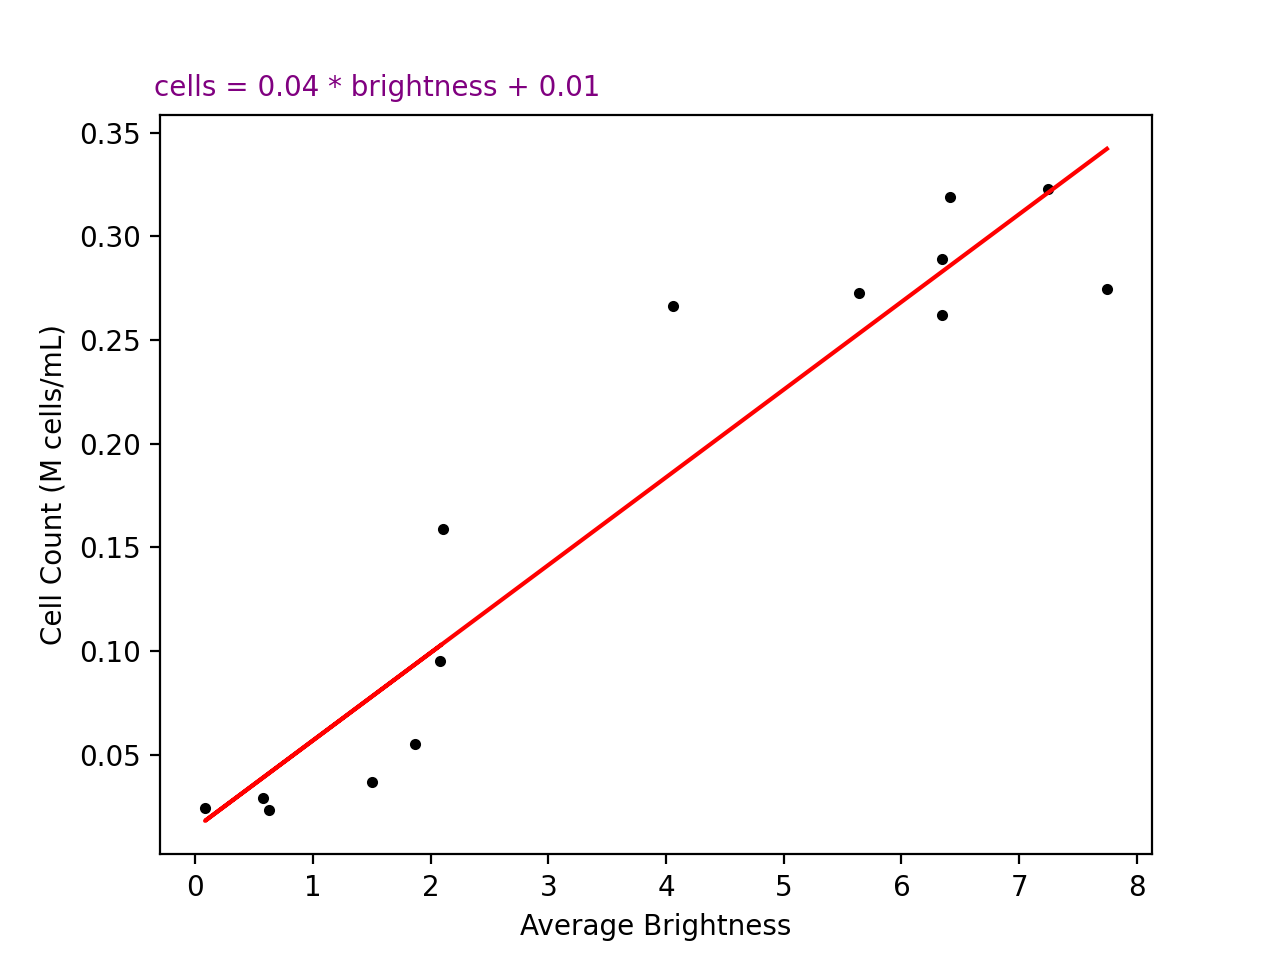
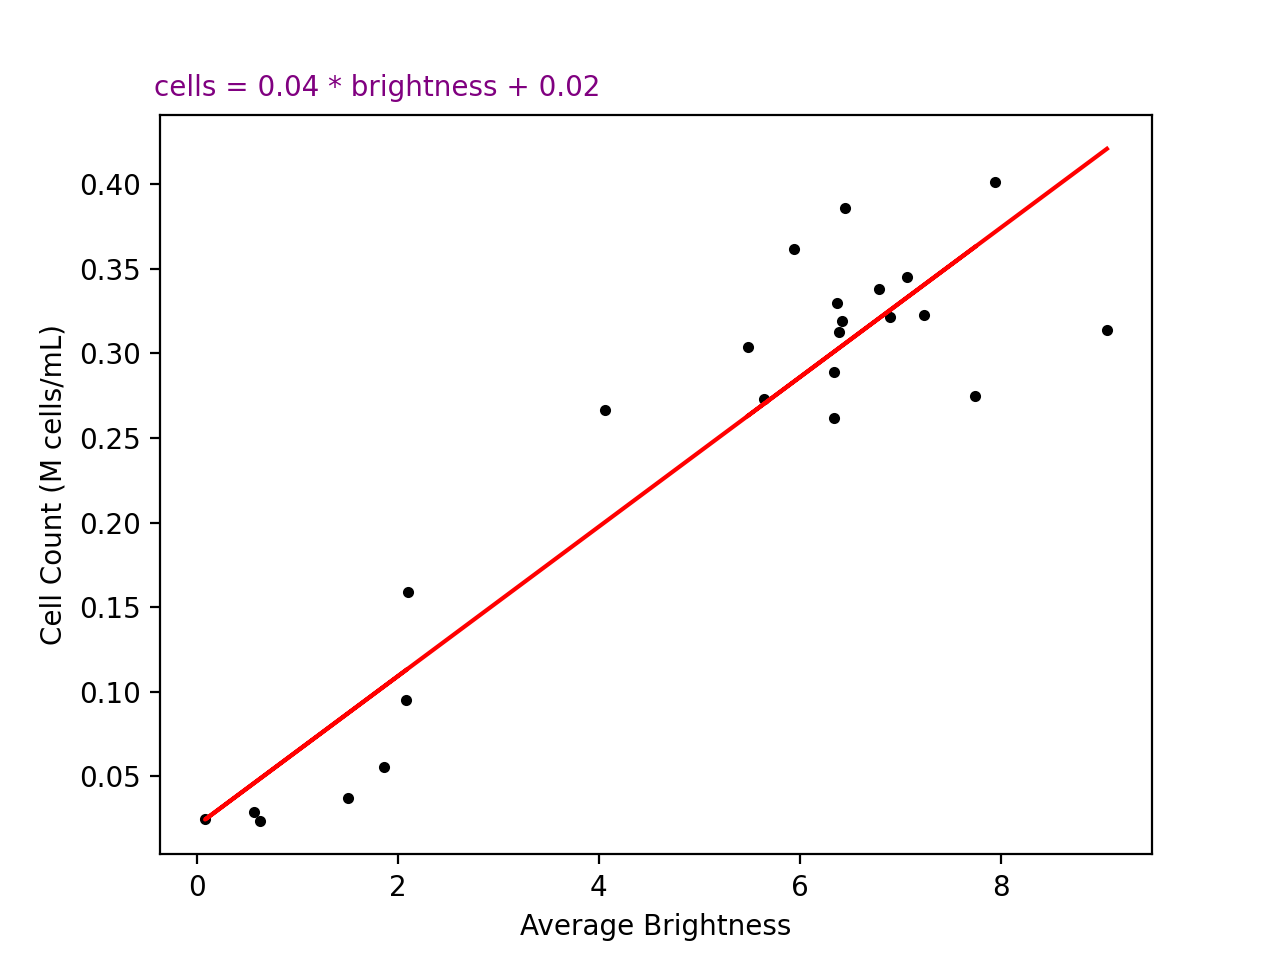
:memo: :lipstick: :bug: fix calibright, update readme with new plots

diff --git a/src/core/histogram_pipeline.py b/src/core/histogram_pipeline.py
@@ -174,11 +174,6 @@ class HistogramPipeline:
 
         return cellcount, sensordata, brightness
 
-    def _apply_calibration(self, brightness: np.array) -> np.array:
-        _brightness = brightness.copy()
-        _brightness[:, 1] = _brightness[:, 1] * self.coeffs[0] + self.coeffs[1]
-        return _brightness
-
     def _fix_bounds(
         self,
         cellcount: np.array,
@@ -234,11 +229,14 @@ class HistogramPipeline:
         _brightness[:, 1] = scipy.ndimage.gaussian_filter1d(
             _brightness[:, 1], sigma=self.gauss_std
         )
-
         self.scaled_brightness = _brightness
-
         _brightness = self._apply_calibration(_brightness)
 
+        return _brightness
+
+    def _apply_calibration(self, brightness: np.array) -> np.array:
+        _brightness = brightness.copy()
+        _brightness[:, 1] = _brightness[:, 1] * self.coeffs[0] + self.coeffs[1]
         return _brightness
 
     def _read_sliced(self, path_sliced: str, window: tuple) -> np.array:

diff --git a/src/extra/calibright.py b/src/extra/calibright.py
@@ -15,7 +15,6 @@ def calibrate_brightness(path: Path, save: Path = Path("data/calibrate/results")
     saves calibration image to save path.
     """
     fit_df, hash_df = gen_df(path)
-    fit_df = fit_df[fit_df["title"].str.contains("concentration")]
     alpha, beta = _fit_linear_model(fit_df)
     fig = _plot_data(fit_df, alpha, beta)
     fig.savefig(f"{save.resolve()}{os.sep}cal_fig_{hash_df}.png")
